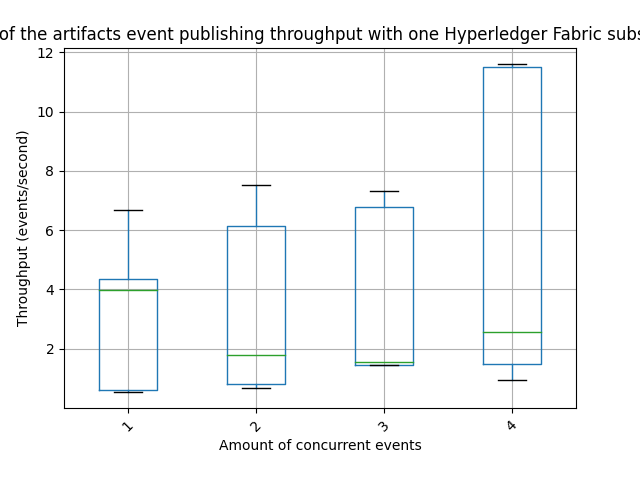
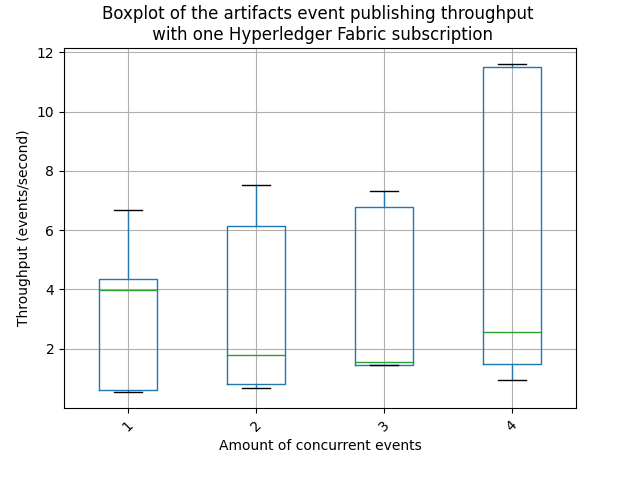
visualization

Changed region(s): [[0.0, 0.0, 1.0, 0.0938]]

diff --git a/caseStudies/visualizePerformanceTestResults.py b/caseStudies/visualizePerformanceTestResults.py
@@ -24,14 +24,14 @@ def main():
     df = pandas.read_csv(file_path)
     df.boxplot(column="throughput", by="parallel events")
     plt.xticks(rotation=45)
-    plt.title("Boxplot of the artifacts event publishing throughput with one Hyperledger Fabric subscription")
+    plt.title("Boxplot of the artifacts event publishing throughput \n with one Hyperledger Fabric subscription")
     plt.suptitle("")
     plt.xlabel("Amount of concurrent events")
     plt.ylabel("Throughput (events/second)")
     plt.savefig(file_path[:-4]+"Throughput.png")
 
     df.boxplot(column="latency", by="parallel events")
-    plt.title("Boxplot of the artifacts event publishing latency with one Hyperledger Fabric subscription")
+    plt.title("Boxplot of the artifacts event publishing latency \n with one Hyperledger Fabric subscription")
     plt.suptitle("")
     plt.ylabel("Latency in second/event")
     plt.xlabel("Amount of concurrent events")
@@ -40,7 +40,7 @@ def main():
     df = read_merged_files(file_paths[:4])
     df = df[df["parallel events"] == 1]
     df.boxplot(column="latency", by="subscriptions")
-    plt.title("Boxplot of the artifacts event publishing latency for Hyperledger Fabric subscriptions with one concurrent event")
+    plt.title("Boxplot of the artifacts event publishing latency \n for Hyperledger Fabric subscriptions with one concurrent event")
     plt.suptitle("")
     plt.ylabel("Latency in second/event")
     plt.xlabel("Amount of oracle subscriptions")
@@ -48,7 +48,7 @@ def main():
 
     plt.xticks(rotation=45)
     df.boxplot(column="throughput", by="subscriptions")
-    plt.title("Boxplot of the artifacts event publishing throughput for Hyperledger Fabric subscriptions with one concurrent event ")
+    plt.title("Boxplot of the artifacts event publishing throughput \n for Hyperledger Fabric subscriptions with one concurrent event ")
     plt.suptitle("")
     plt.xlabel("Amount of concurrent events")
     plt.ylabel("Throughput (events/second)")
@@ -58,14 +58,14 @@ def main():
     df = pandas.read_csv(file_path)
     df.boxplot(column="throughput", by="parallel events")
     plt.xticks(rotation=45)
-    plt.title("Boxplot of the artifacts event publishing throughput with one Hyperledger Fabric subscription")
+    plt.title("Boxplot of the artifacts event publishing throughput \n with one Hyperledger Fabric subscription")
     plt.suptitle("")
     plt.xlabel("Amount of concurrent events")
     plt.ylabel("Throughput (events/second)")
     plt.savefig(file_path[:-4]+"Throughput.png")
 
     df.boxplot(column="latency", by="parallel events")
-    plt.title("Boxplot of the artifacts event publishing latency with one Ethereum subscription")
+    plt.title("Boxplot of the artifacts event publishing latency \n  with one Ethereum subscription")
     plt.suptitle("")
     plt.ylabel("Latency in second/event")
     plt.xlabel("Amount of concurrent events")
@@ -74,7 +74,7 @@ def main():
     df = read_merged_files(file_paths[3:])
     df = df[df["parallel events"] == 1]
     df.boxplot(column="latency", by="subscriptions")
-    plt.title("Boxplot of the artifacts event publishing latency for Ethereum subscriptions with one concurrent event")
+    plt.title("Boxplot of the artifacts event publishing latency \n for Ethereum subscriptions with one concurrent event")
     plt.suptitle("")
     plt.ylabel("Latency in second/event")
     plt.xlabel("Amount of oracle subscriptions")
@@ -82,7 +82,7 @@ def main():
 
     df.boxplot(column="throughput", by="subscriptions")
     plt.xticks(rotation=45)
-    plt.title("Boxplot of the artifacts event publishing throughput for Ethereum subscriptions with one concurrent event ")
+    plt.title("Boxplot of the artifacts event publishing throughput \n for Ethereum subscriptions with one concurrent event ")
     plt.suptitle("")
     plt.xlabel("Amount of concurrent events")
     plt.ylabel("Throughput (events/second)")
